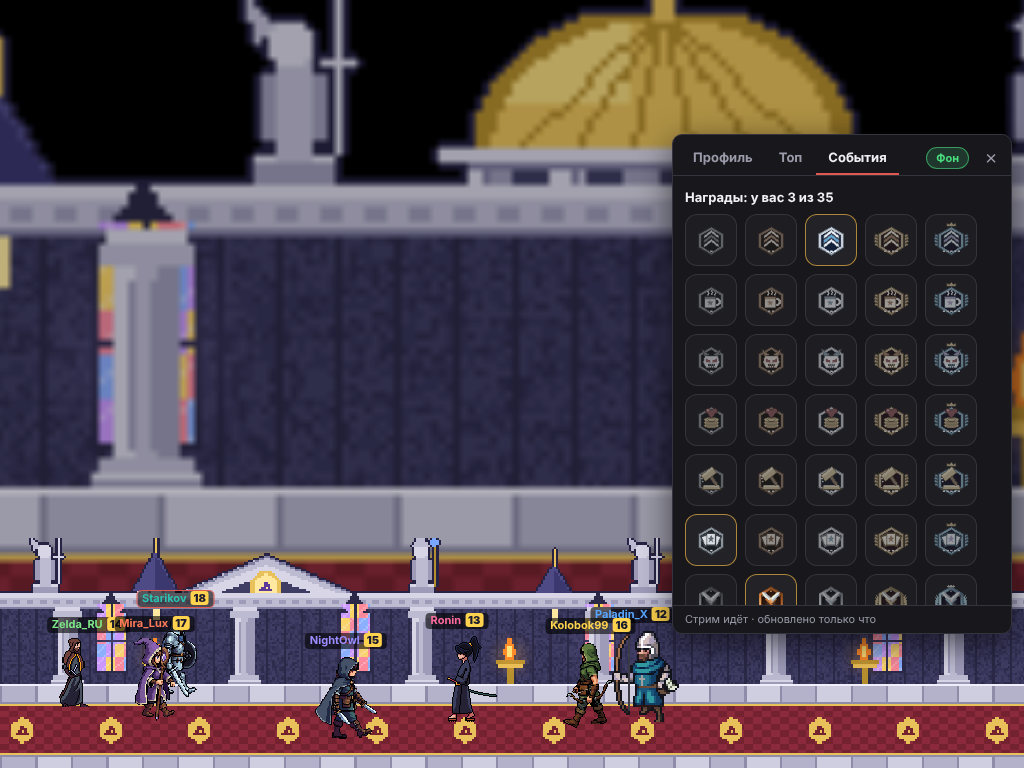
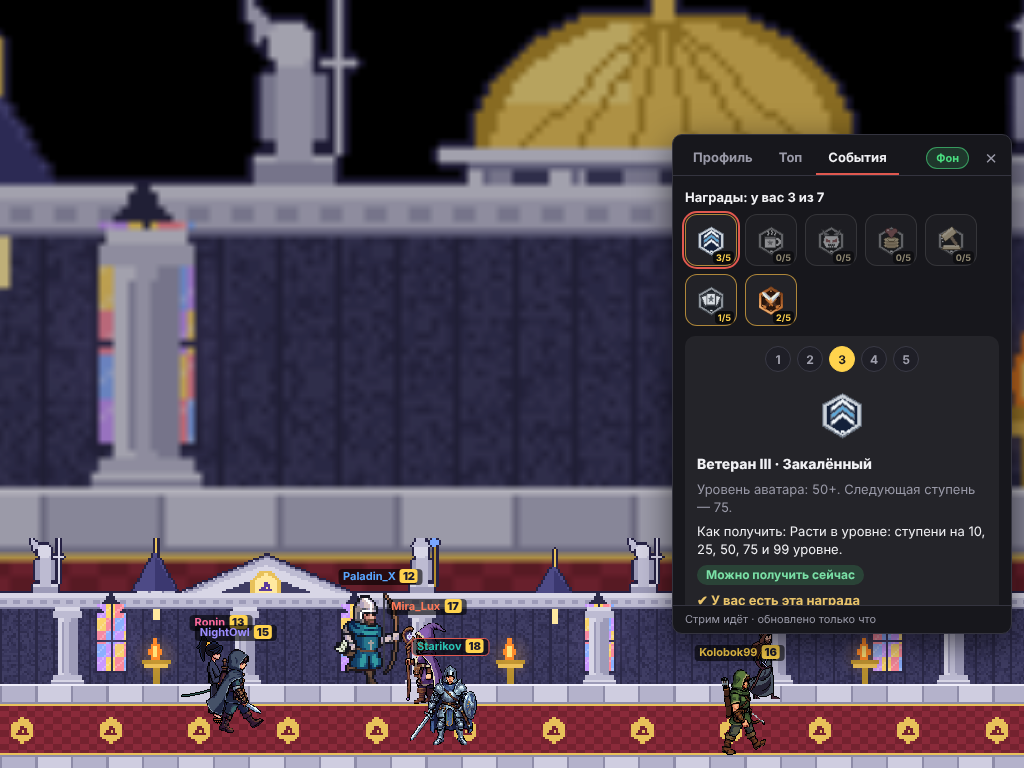
Расширение: ачивки-лесенки — одна иконка на 5 ступеней вместо пяти
Claude-Session: https://claude.ai/code/session_01XuFwmfbgB6L3kUEcTDAfp6

Changed region(s): [[0.5312, 0.25, 0.9688, 1.0], [0.0312, 0.7188, 0.5, 0.9688], [0.9062, 0.75, 0.9375, 0.7812]]

diff --git a/extension/viewer.js b/extension/viewer.js
@@ -90,8 +90,29 @@
     return s;
   }
   function fmtDate(sec) { try { return new Date(sec * 1000).toLocaleDateString('ru-RU'); } catch (e) { return ''; } }
+  /* награды-«лесенки»: «Ветеран I · Бывалый» … «Ветеран V · Легенда» — одна иконка на всю лесенку, показывается текущая ступень */
+  var ROMAN = { I: 0, II: 1, III: 2, IV: 3, V: 4 };
+  function tierInfo(id) { var m = awardCat[id], r = m && /^(.{1,40}?) (I|II|III|IV|V) · (.+)$/.exec(m.title || ''); return r ? { track: r[1], tier: ROMAN[r[2]], name: r[3] } : null; }
+  /** Список «предметов»: лесенка = {track, ids:[по ступеням], cur: индекс текущей ступени}, одиночная награда = {id}. have — набор полученных id */
+  function awardItems(have) {
+    var items = [], byTrack = {};
+    Object.keys(awardCat).forEach(function (id) {
+      var t = tierInfo(id);
+      if (!t) { items.push({ id: id, ids: [id], cur: 0 }); return; }
+      var it = byTrack[t.track]; if (!it) { it = byTrack[t.track] = { track: t.track, ids: [], cur: 0 }; items.push(it); }
+      it.ids[t.tier] = id;
+    });
+    items.forEach(function (it) {
+      it.ids = it.ids.filter(Boolean);                       // на случай пропущенной ступени
+      it.cur = 0; it.ids.forEach(function (id, i) { if (have[id]) it.cur = i; });
+      it.owned = it.ids.some(function (id) { return have[id]; });
+      it.id = it.ids[it.cur];
+    });
+    return items;
+  }
+  function ownedSet(list) { var o = {}; (list || []).forEach(function (id) { o[id] = true; }); return o; }
   function medals(p) {
-    var ids = (p.awards || []).filter(function (id) { return awardCat[id]; });
+    var ids = awardItems(ownedSet(p.awards)).filter(function (it) { return it.owned; }).map(function (it) { return it.id; });
     var box = el('div', 'medals-box');
     if (ids.length) {
       var wrap = el('div', 'medals'), info = el('div', 'medal-info muted small', 'Нажмите на медаль, чтобы прочитать описание');
@@ -116,25 +137,40 @@
   var selAward = null;
   function renderAwards() {
     var root = $('view-awards'); root.replaceChildren();
-    var ids = Object.keys(awardCat);
-    if (!ids.length) { root.appendChild(el('p', 'muted center', 'Наград пока нет. Когда стример создаст события с наградами, они появятся здесь.')); return; }
-    ids.sort(function (a, b) { return (awardCat[b].open ? 1 : 0) - (awardCat[a].open ? 1 : 0); });
-    var mine = me(), have = {}; if (mine) mine.awards.forEach(function (id) { have[id] = true; });
-    var got = ids.filter(function (id) { return have[id]; }).length;
-    root.appendChild(el('div', 'awhead', mine ? 'Награды: у вас ' + got + ' из ' + ids.length : 'Все награды (' + ids.length + ')'));
+    var allIds = Object.keys(awardCat);
+    if (!allIds.length) { root.appendChild(el('p', 'muted center', 'Наград пока нет. Когда стример создаст события с наградами, они появятся здесь.')); return; }
+    var mine = me(), have = ownedSet(mine ? mine.awards : []);
+    var items = awardItems(have);
+    items.sort(function (a, b) { return (awardCat[b.id].open ? 1 : 0) - (awardCat[a.id].open ? 1 : 0); });
+    var got = items.filter(function (it) { return it.owned; }).length;
+    root.appendChild(el('div', 'awhead', mine ? 'Награды: у вас ' + got + ' из ' + items.length : 'Все награды (' + items.length + ')'));
     var grid = el('div', 'awgrid');
-    ids.forEach(function (id) {
-      var m = awardCat[id], b = el('button', 'awbtn' + (have[id] ? ' owned' : '') + (m.open ? '' : ' closed') + (selAward === id ? ' sel' : '')); b.type = 'button';
-      b.setAttribute('aria-label', m.title + (have[id] ? ', получена' : '') + (m.open ? ', можно получить' : ', закрыта'));
+    items.forEach(function (it) {
+      var id = it.id, m = awardCat[id], isSel = selAward && it.ids.indexOf(selAward) >= 0;
+      var b = el('button', 'awbtn' + (it.owned ? ' owned' : '') + (m.open ? '' : ' closed') + (isSel ? ' sel' : '')); b.type = 'button';
+      b.setAttribute('aria-label', m.title + (it.owned ? ', получена' : '') + (m.open ? ', можно получить' : ', закрыта'));
       b.appendChild(medalIcon(m, 36));
+      if (it.ids.length > 1) b.appendChild(el('span', 'awtier', (it.owned ? it.cur + 1 : 0) + '/' + it.ids.length));
       if (!m.open) b.appendChild(el('span', 'awlock', '🔒'));
-      b.addEventListener('click', function () { selAward = selAward === id ? null : id; renderAwards(); });
+      b.addEventListener('click', function () { selAward = isSel ? null : id; renderAwards(); });
       grid.appendChild(b);
     });
     root.appendChild(grid);
+    var selItem = selAward && items.filter(function (it) { return it.ids.indexOf(selAward) >= 0; })[0];
     var m2 = selAward && awardCat[selAward];
-    if (!m2) { root.appendChild(el('p', 'muted small center', 'Нажмите на награду, чтобы узнать, как её получить.')); return; }
+    if (!m2 || !selItem) { root.appendChild(el('p', 'muted small center', 'Нажмите на награду, чтобы узнать, как её получить.')); return; }
     var d = el('div', 'awdetail');
+    if (selItem.ids.length > 1) {                              // ступени лесенки: переключатель I–V, иконка в списке всегда показывает текущую
+      var lad = el('div', 'awladder');
+      selItem.ids.forEach(function (sid, i) {
+        var sb = el('button', 'awstep' + (sid === selAward ? ' sel' : '') + (have[sid] ? ' owned' : '')); sb.type = 'button';
+        sb.textContent = String(i + 1); sb.setAttribute('aria-label', 'Ступень ' + (i + 1) + (have[sid] ? ', получена' : ''));
+        sb.addEventListener('click', function () { selAward = sid; renderAwards(); });
+        lad.appendChild(sb);
+      });
+      d.appendChild(lad);
+      var big = medalIcon(m2, 56); big.classList.add('awbig'); d.appendChild(big);
+    }
     d.appendChild(el('div', 'awtitle', m2.title));
     if (m2.desc) d.appendChild(el('div', 'awdesc', m2.desc));
     d.appendChild(el('div', 'awhow', 'Как получить: ' + (m2.howTo || 'условия не указаны')));

diff --git a/extension/viewer.css b/extension/viewer.css
@@ -154,3 +154,10 @@ html, body { margin: 0; height: 100%; background: transparent; font: 13px/1.4 sy
 .bosshp-fill{height:100%;background:#e5484d;transition:width .9s linear}
 .bossres{font-size:12px;margin-top:2px}.bossres.win{color:#2BC4B4}.bossres.lose{color:#e5484d}
 .facts.duel,.facts.pa{margin-top:6px}
+
+.awtier{position:absolute;right:2px;bottom:1px;font:700 9px system-ui;color:#ffd34d;background:rgba(0,0,0,.65);border-radius:4px;padding:0 3px;line-height:13px}
+.awbtn{position:relative}
+.awladder{display:flex;gap:6px;justify-content:center;margin-bottom:6px}
+.awstep{width:26px;height:26px;border-radius:50%;border:1px solid #3a3a46;background:#1f1f27;color:#a0a0ad;font:700 12px system-ui;cursor:pointer}
+.awstep.owned{border-color:#ffd34d;color:#ffd34d}.awstep.sel{background:#ffd34d;color:#17171c;border-color:#ffd34d}
+.awbig{display:flex;justify-content:center;margin:2px 0 6px}
